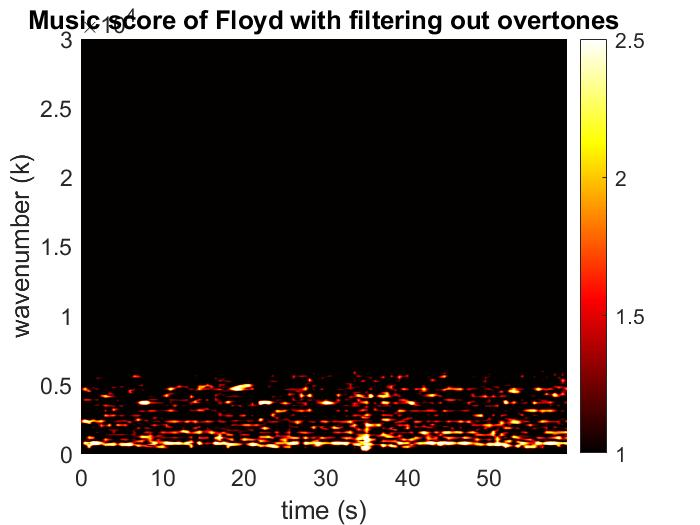
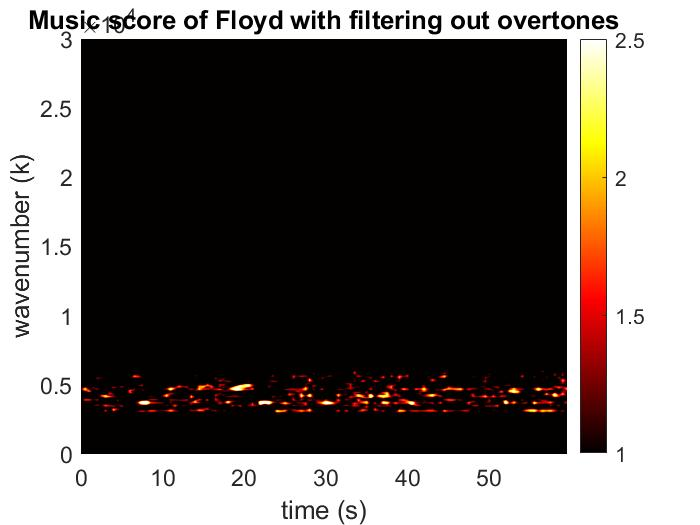
hw2 final

Changed region(s): [[0.12, 0.7619, 0.81, 0.8838]]

diff --git a/Hw2/main_Floyd.m b/Hw2/main_Floyd.m
@@ -43,23 +43,23 @@ end
 % title('Music score of Floyd')
 
 %% Isolate Bass
-filtered_range = [0, 0.6e4];
+filtered_range = [0.3e4, 0.6e4];
 filter = zeros(size(ks));
 [~, id1] = min(abs(ks-filtered_range(1)));
 [~, id2] = min(abs(ks-filtered_range(2)));
 filter(id1:id2) = 1;
 
-% figure(3)
-% Sgt_spec_filter = Sgt_spec .* filter;
-% pcolor(tslide, ks, Sgt_spec_filter.'), 
-% shading interp 
-% set(gca,'Ylim',[0, 3e4],'Fontsize',[14]) 
-% colormap(hot)
-% colorbar
-% caxis([1.0 2.5])
-% xlabel('time (s)')
-% ylabel('wavenumber (k)')
-% title('Music score of Floyd with filtering out overtones')
+figure(3)
+Sgt_spec_filter = Sgt_spec .* filter;
+pcolor(tslide, ks, Sgt_spec_filter.'), 
+shading interp 
+set(gca,'Ylim',[0, 3e4],'Fontsize',[14]) 
+colormap(hot)
+colorbar
+caxis([1.0 2.5])
+xlabel('time (s)')
+ylabel('wavenumber (k)')
+title('Music score of Floyd with filtering out overtones')
 
 %% Obtain Guitar
 filtered_range = [2e4, 3e4];
